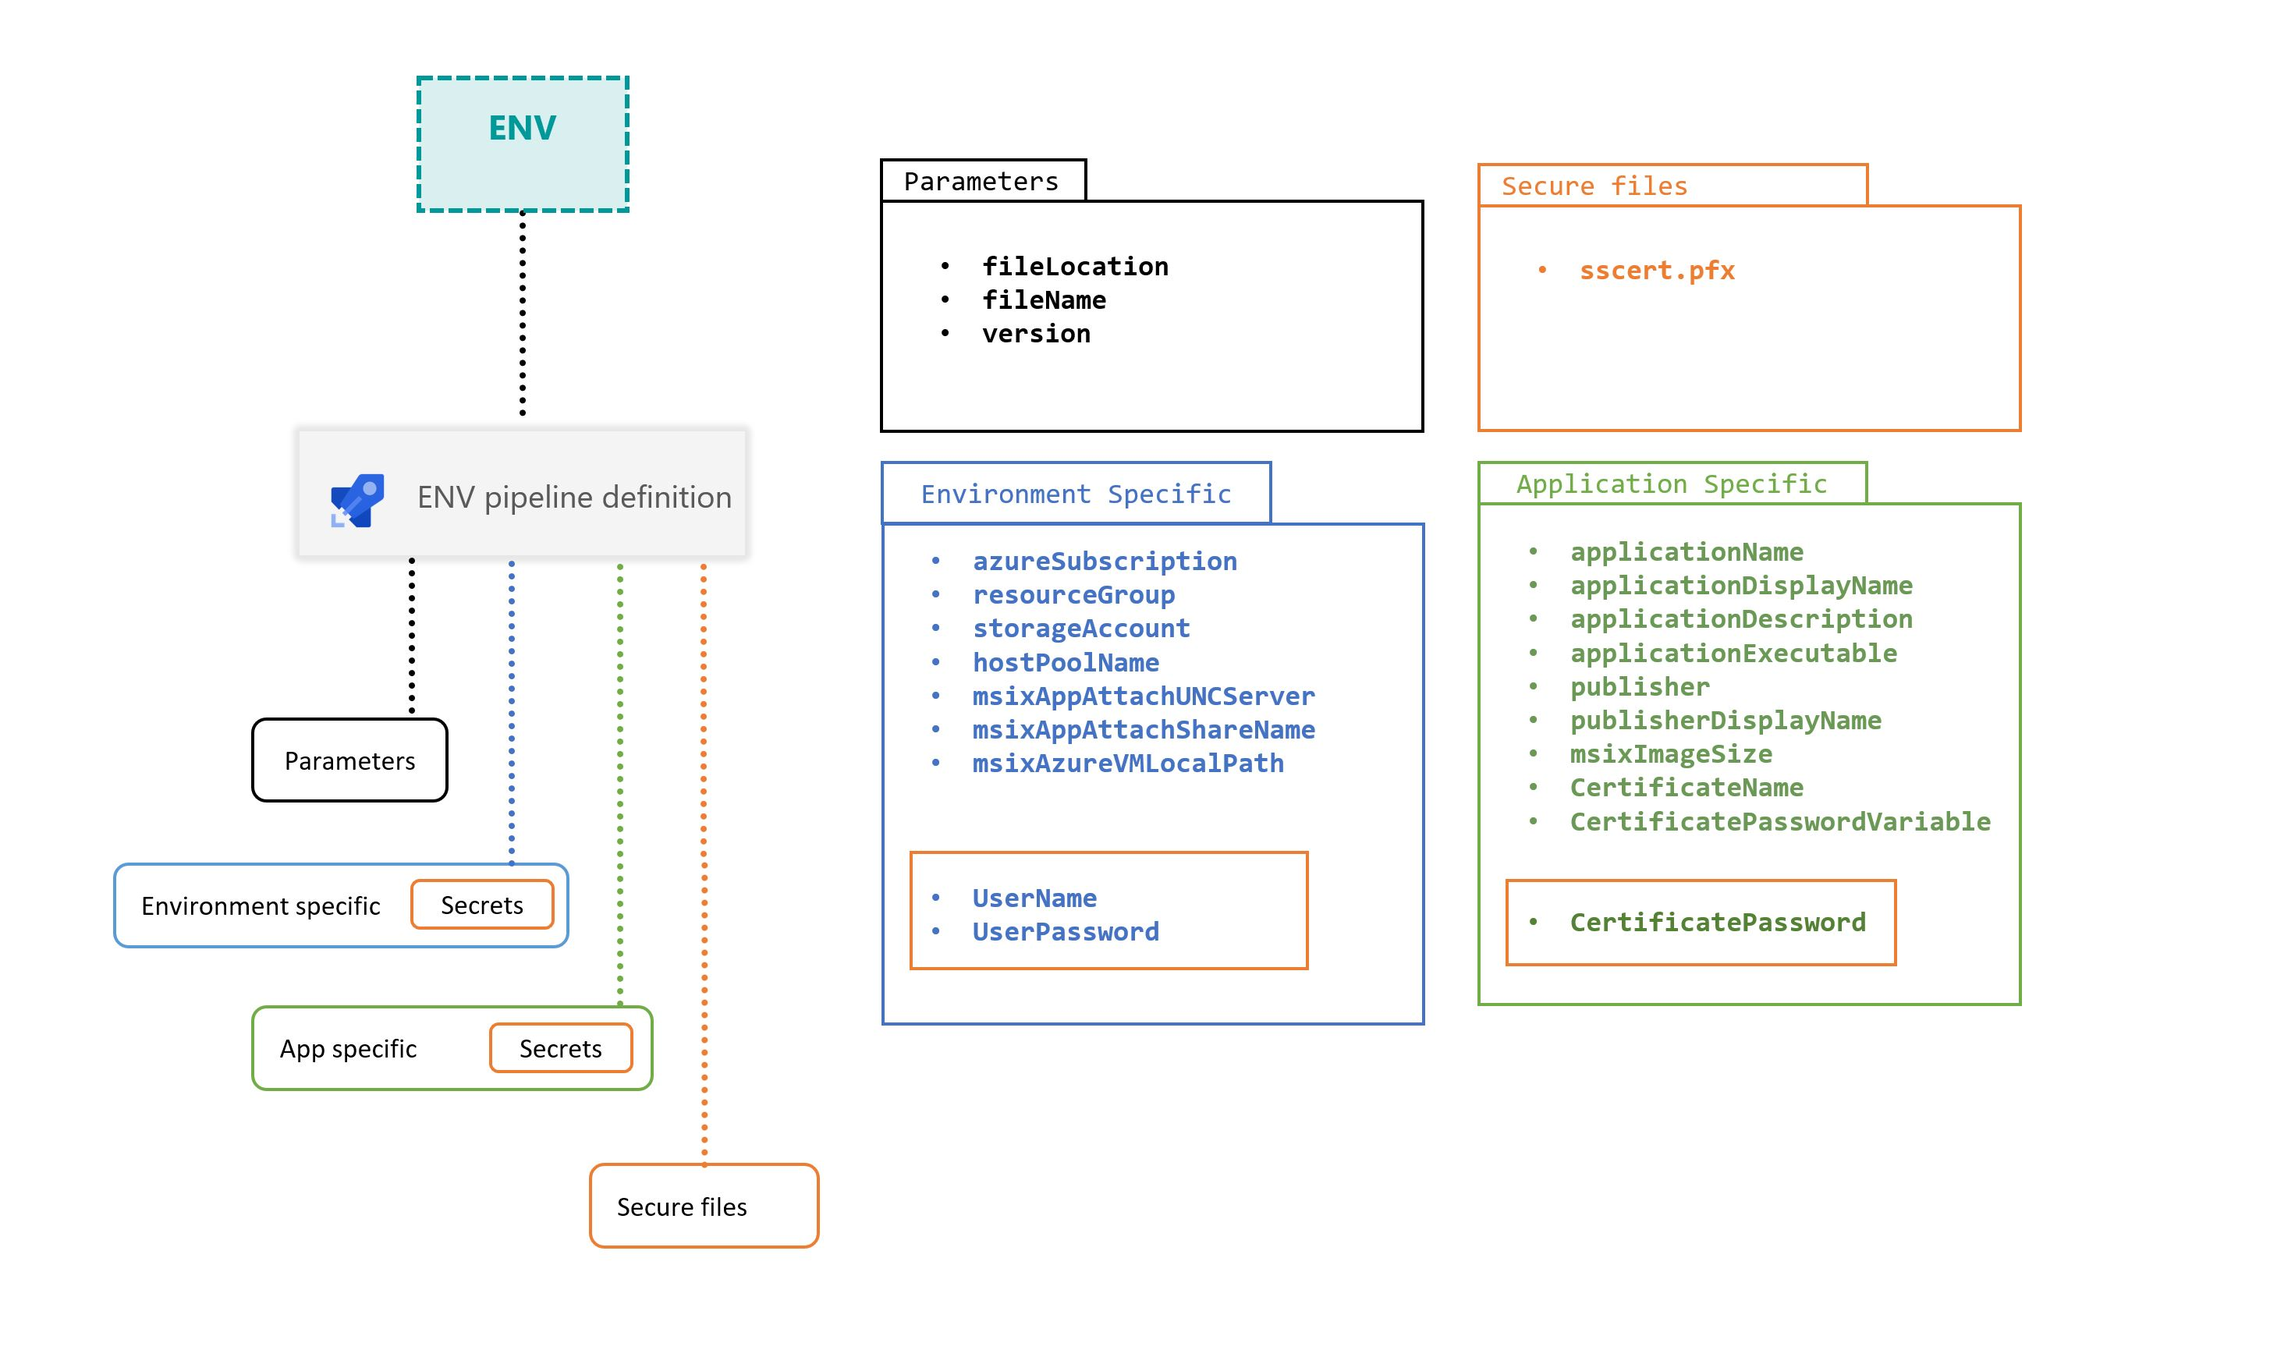
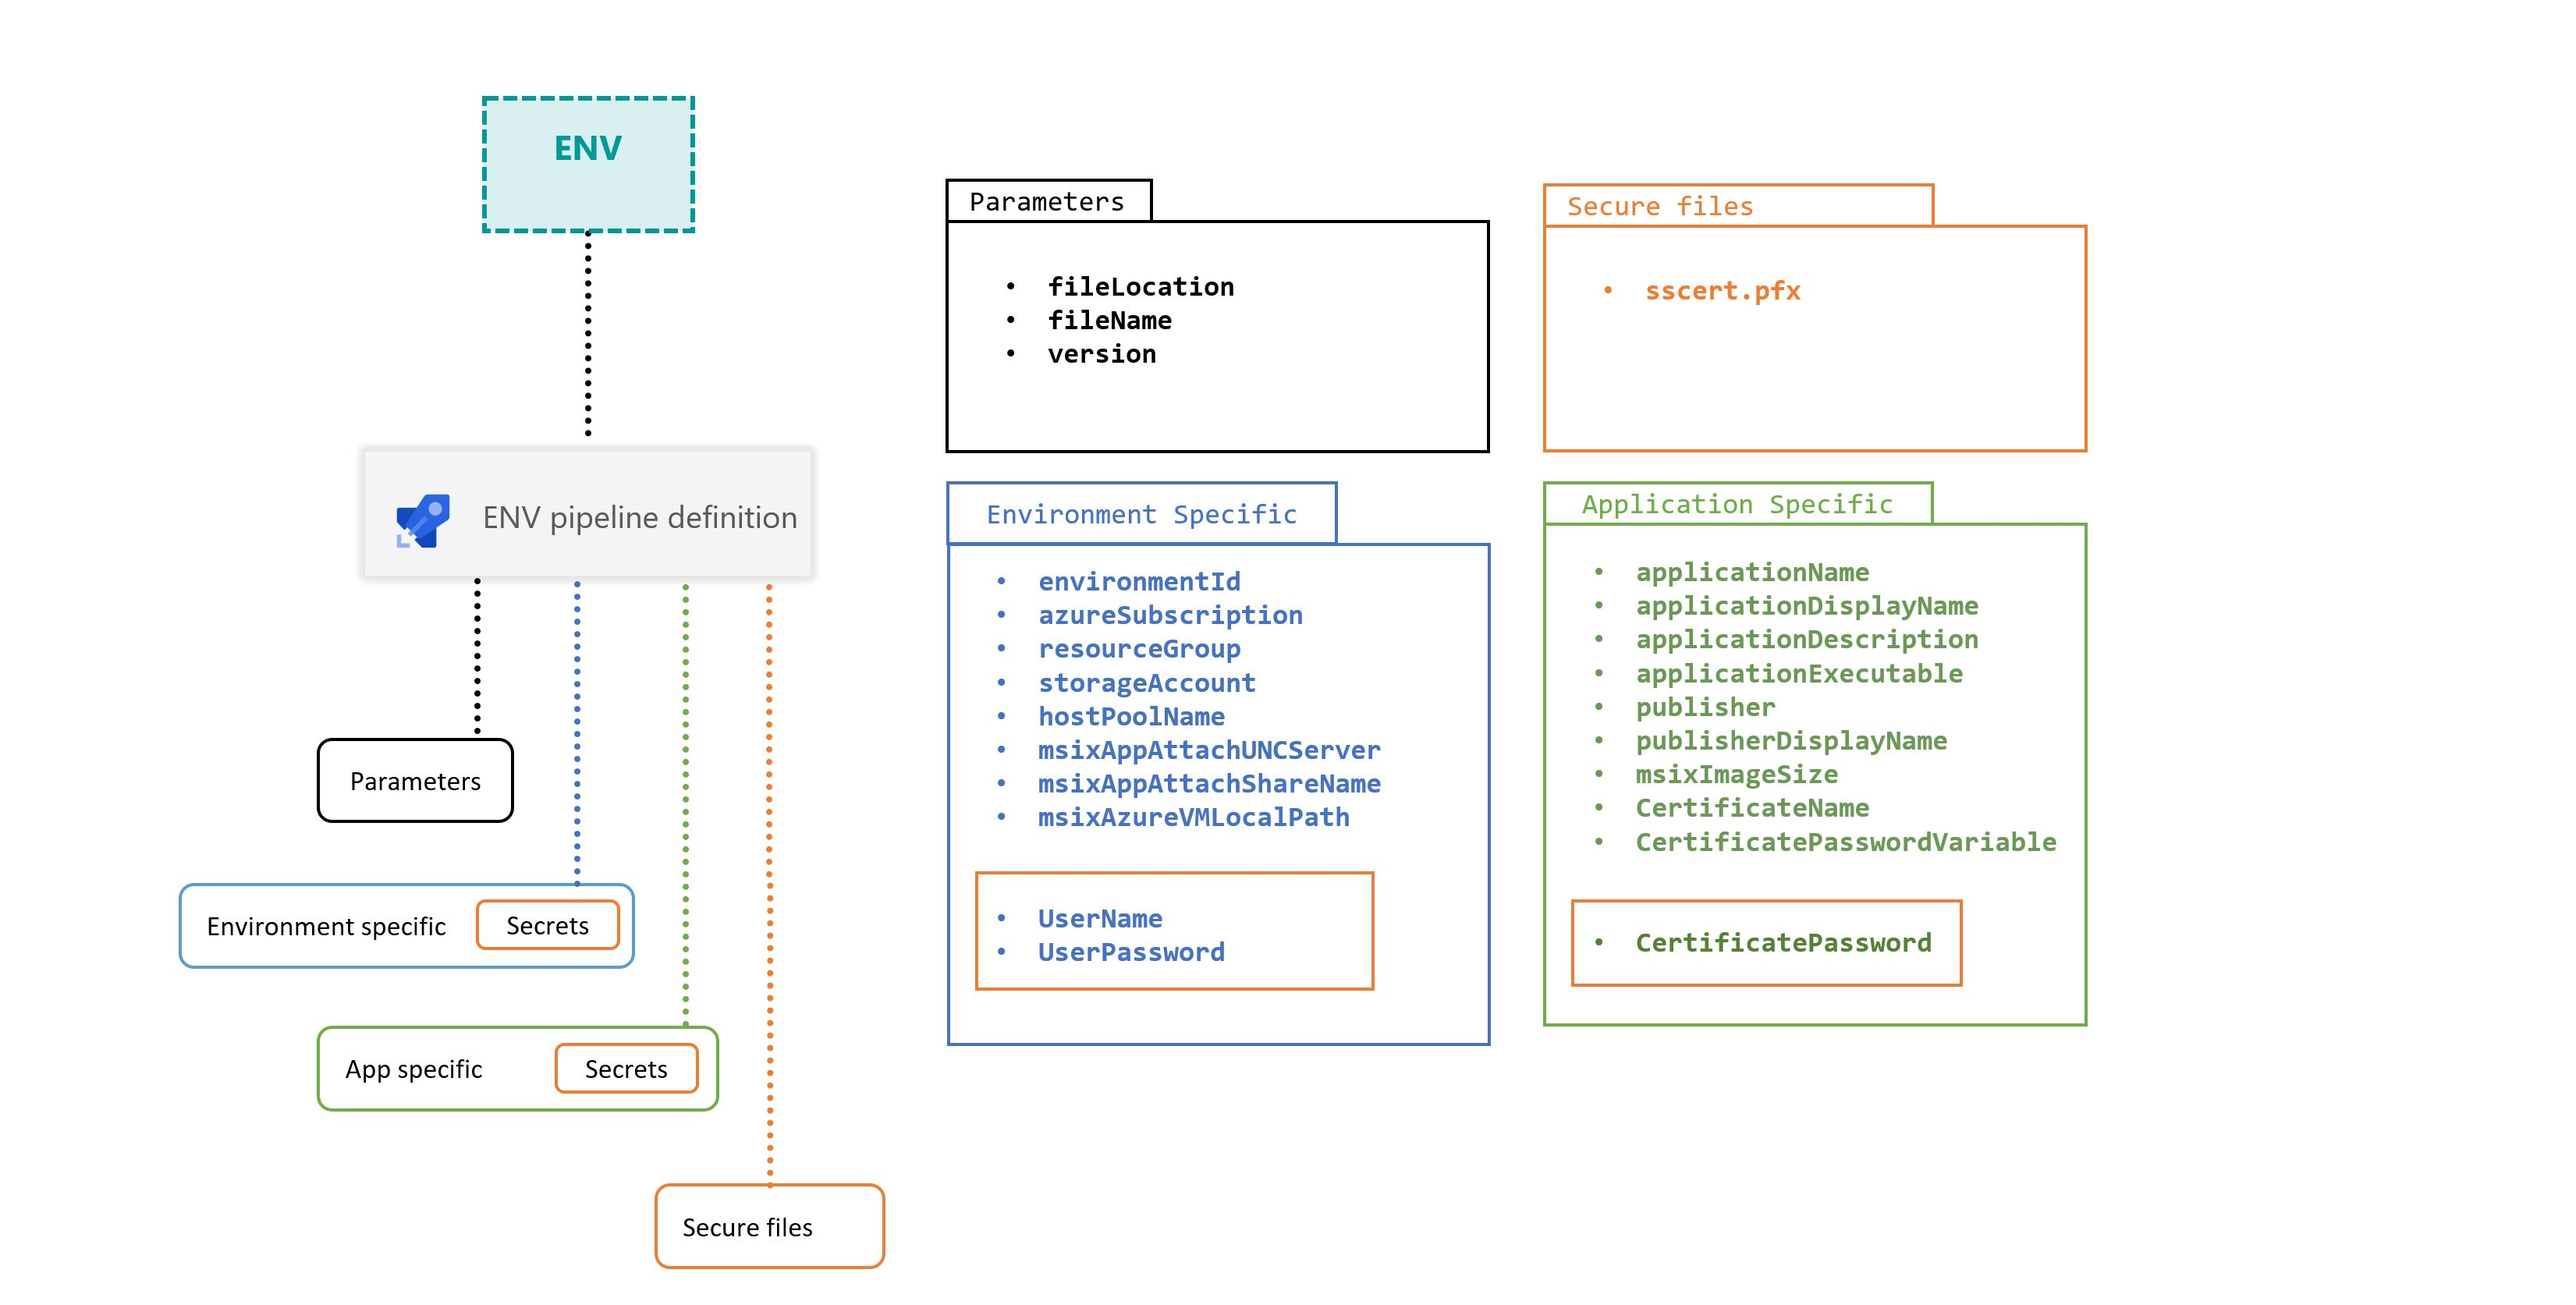
Update environmentId documentation

diff --git a/doc/multiple-environments.md b/doc/multiple-environments.md
@@ -1,6 +1,6 @@
 # Rollout Orchestration multiple environments
 
-This repo includes a single pipeline `/.pipelines/env-CICD-avd-msix-app-attach.yaml` executing both a Continuous Integration (CI) stage and a Continuous Delivery (CD) stage to a single **environment**. The default **environment** name used is `DEV`.
+This repo includes a single pipeline `/.pipelines/env-CICD-avd-msix-app-attach.yaml` executing both a Continuous Integration (CI) stage and a Continuous Delivery (CD) stage to a single **environment**. The default **environment** name used is `DEV`. The environment name is defined in through the variable `name: environmentId` , which is defined in the enviroment specific Variable Group.
 The pipeline uses [Deployment Jobs](https://docs.microsoft.com/en-us/azure/devops/pipelines/process/deployment-jobs?view=azure-devops) hence ADO environments will be used and automatically created as configured.
 
 <img src="images/variable_groups_multiple_environments.jpg" alt="Multiple Environments with Variable Groups">
@@ -21,12 +21,7 @@ With this pipeline and while aiming for simplicity a way to support multiple env
   - Variable group were created for each envirnment
   - In the variable group name, the invironment is identified
   - The referece to the environment specific variable groups can be found [here](https://github.com/joalmeid/avd-app-attach-ops/blob/mvp1/.pipelines/env-CICD-avd-msix-app-attach.yml#L61).****
-
-**3. Customize each YAML pipeline with the specific environment name**
-
-  - Default environment name can be changed [here](https://github.com/joalmeid/avd-app-attach-ops/blob/mvp1/.pipelines/templates/CD-msix-stage.yaml#L5)
-  - A parameter can be set when calling the [CD-msix-stage](https://github.com/joalmeid/avd-app-attach-ops/blob/mvp1/.pipelines/env-CICD-avd-msix-app-attach.yml#L103). Ex: Adding the line `envId: PROD` in the root YAML pipeline.
-
+  
 ## Variable Groups
 
 In a multi environment setup, the variable group usage becomes trivial. In each environment specific YAML pipeline, it is recommended to link the pipeline by referencing an environment specific variable group.
